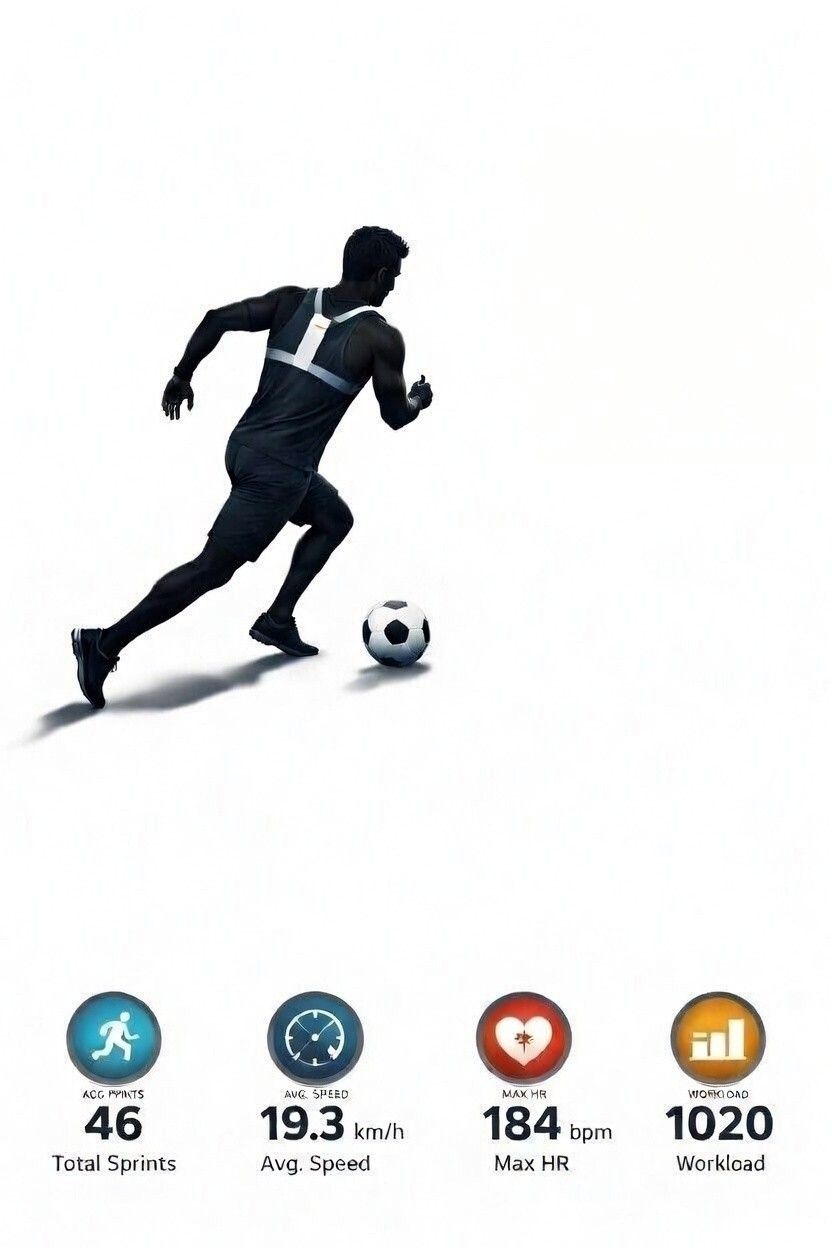
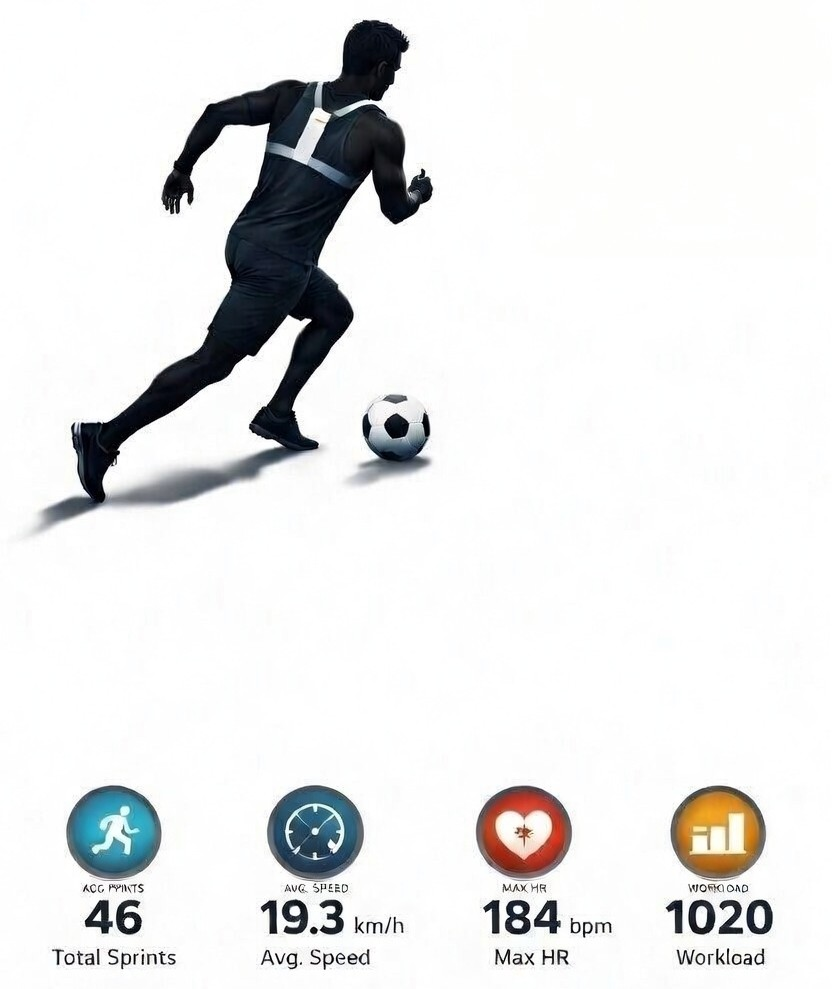
Crop GPS image to show athlete and all metrics clearly

diff --git a/index.html b/index.html
@@ -207,7 +207,7 @@
 
         <div class="proj-card" onclick="openModal('modal-gps')">
           <div class="proj-card-photo">
-            <img src="gps3.jpg" alt="GPS wearable athlete monitoring" style="object-fit:cover;object-position:50% 20%;" />
+            <img src="gps3.jpg" alt="GPS wearable athlete monitoring" style="object-fit:contain;background:#fff;" />
           </div>
           <div class="proj-card-body">
             <div class="proj-tags"><span class="jtag jtag-data">Data Science</span><span class="jtag jtag-data">Wearable Sensors</span></div>
